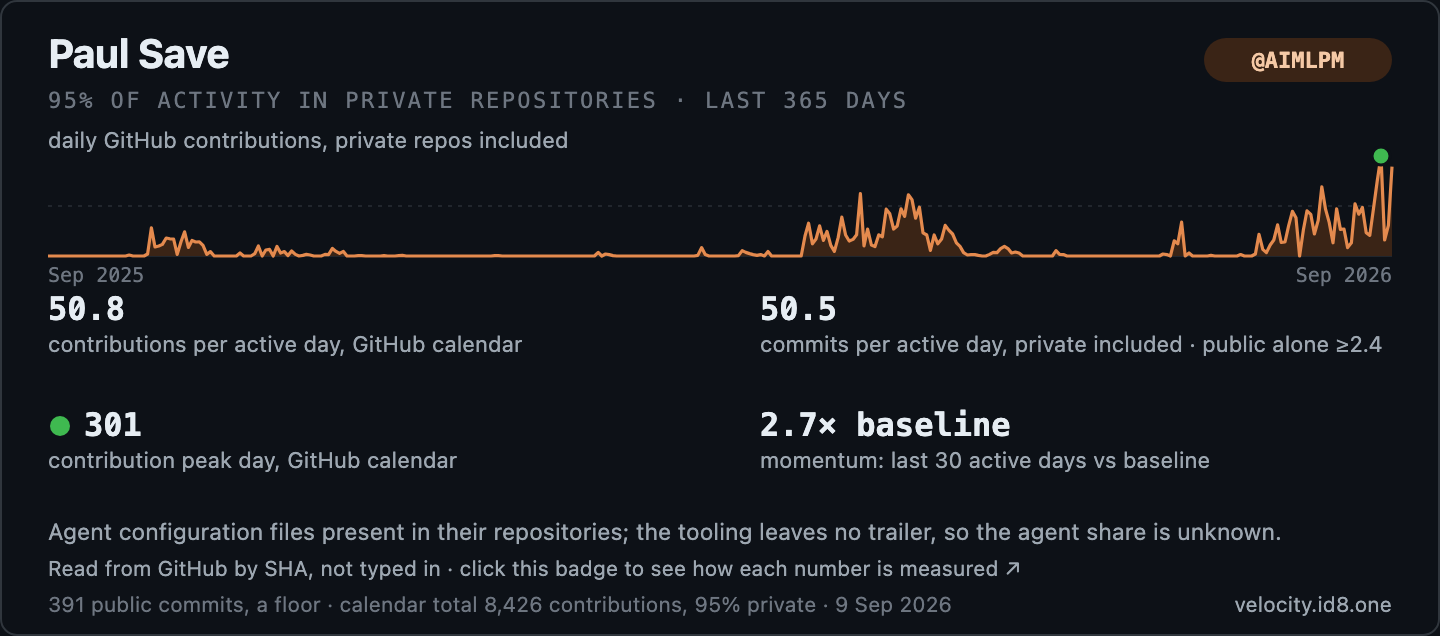
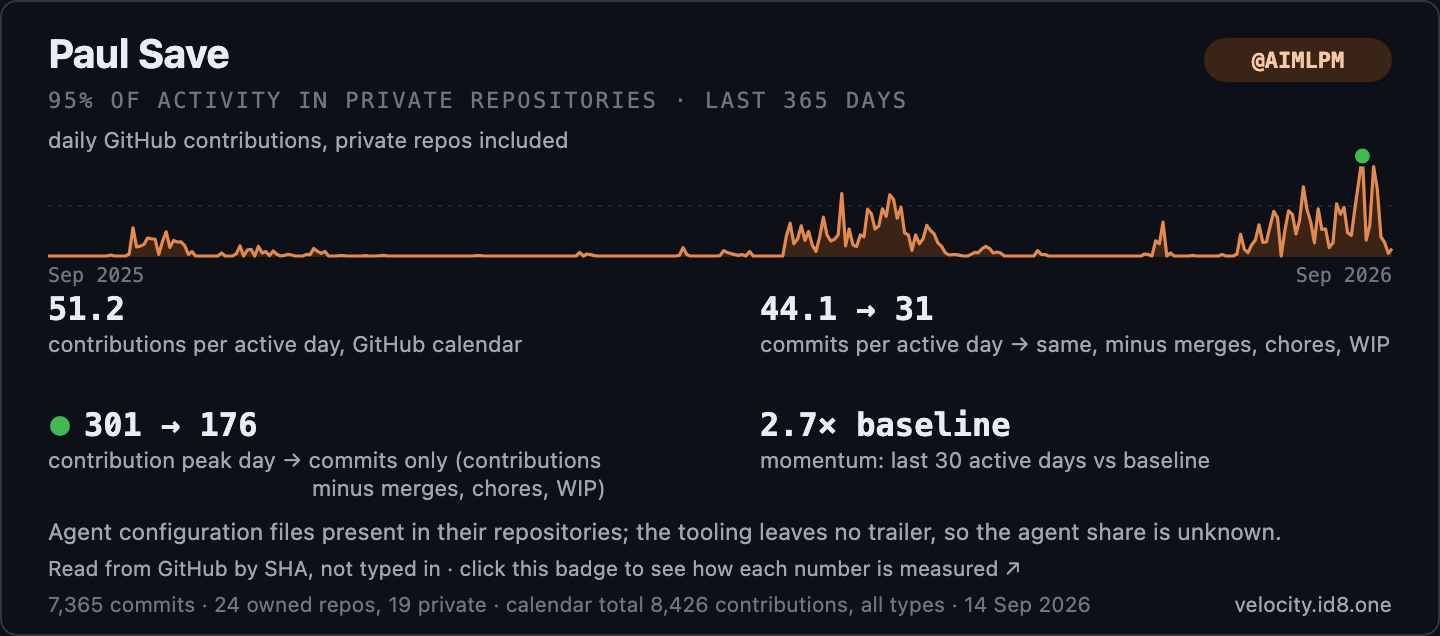
radar badge: own repositories read again, marked; explainer updated

diff --git a/radar/README.md b/radar/README.md
@@ -1,15 +1,17 @@
 # What the badge on this profile means
 
-The badge is generated from GitHub's own records, not typed in, and it is read for this account exactly the way [Unlock Radar](https://velocity.id8.one) reads any other public GitHub profile: no private access, nothing entered by hand.
+The badge is generated from GitHub's own records, not typed in. This account is read the way [Unlock Radar](https://velocity.id8.one) reads any public GitHub profile, plus one thing only the owner can add: his own repositories, private ones included, read from GitHub's copy with his own access.
 
 **Contributions per active day, GitHub calendar.** GitHub's contribution calendar for the trailing 365 days, private repositories included via the "include private contributions" setting, divided by the number of days with any activity. The same totals are visible on the public profile.
 
-**Commits per active day, private included.** Public commits plus the private contribution count GitHub reports for any profile that shares it, divided by active days. GitHub gives no type breakdown inside private work, so the private part counts every contribution type together; for agent-driven work commits dominate. The smaller figure beside it is public commits alone, a floor, because the API exposes nobody's private repositories.
+**Commits per active day → substantive.** The first number is every commit GitHub attributes to this account on the default branches of the repositories it owns, private ones included, read from GitHub's copy and deduplicated by commit hash. The second removes merge commits, automation-pattern commits (release chores, version bumps, evidence rows written by the pipeline itself) and micro-commits, and is the fairer figure. Anyone granted read access to the repositories can reproduce both.
 
-**Peak day.** The raw calendar maximum for the year.
+**Peak day → substantive commits that day.** The raw calendar maximum, and the same day counted in substantive commits.
 
 **Momentum.** The mean of the last 30 active days against a baseline built from earlier 30-active-day windows.
 
-**Why it is credible.** Nothing here was entered by hand, and anyone can reproduce every figure from the public profile and the public repositories with the same script.
+**Why the commit count and the calendar total differ.** The calendar counts commits, pull requests, issues and reviews across every repository the account has contributed to. The commit figure counts commits only, on default branches of owned repositories, and stays within the calendar total anyone can check.
 
-Regenerated monthly by the same pipeline that produces the Unlock Radar, a screen over well-known builders' public GitHub activity. Method: https://velocity.id8.one/AIMLPM
+**Why it is credible.** Nothing here was entered by hand. The calendar totals are public; the commit figures are reproducible by anyone with read access to the repositories.
+
+Regenerated by the same pipeline that produces the Unlock Radar, a screen over well-known builders' public GitHub activity. Method: https://velocity.id8.one/AIMLPM
